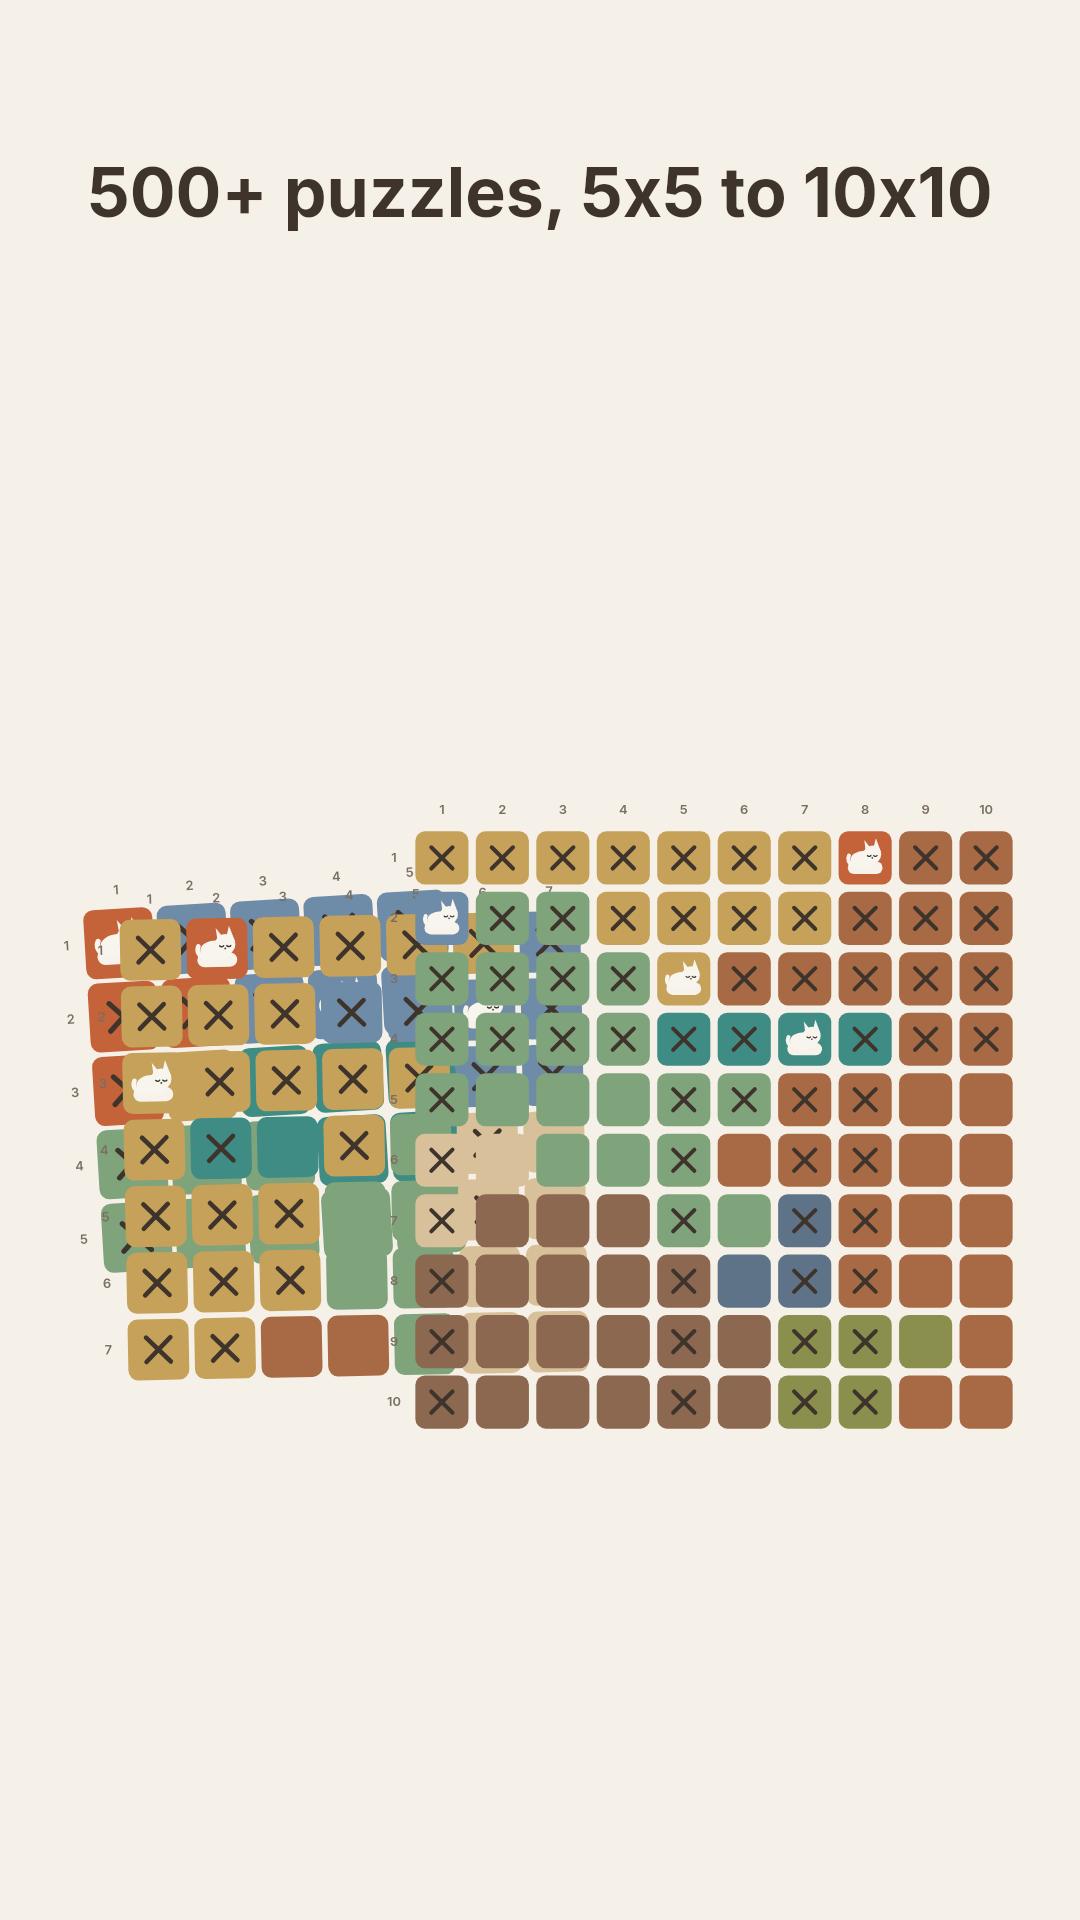
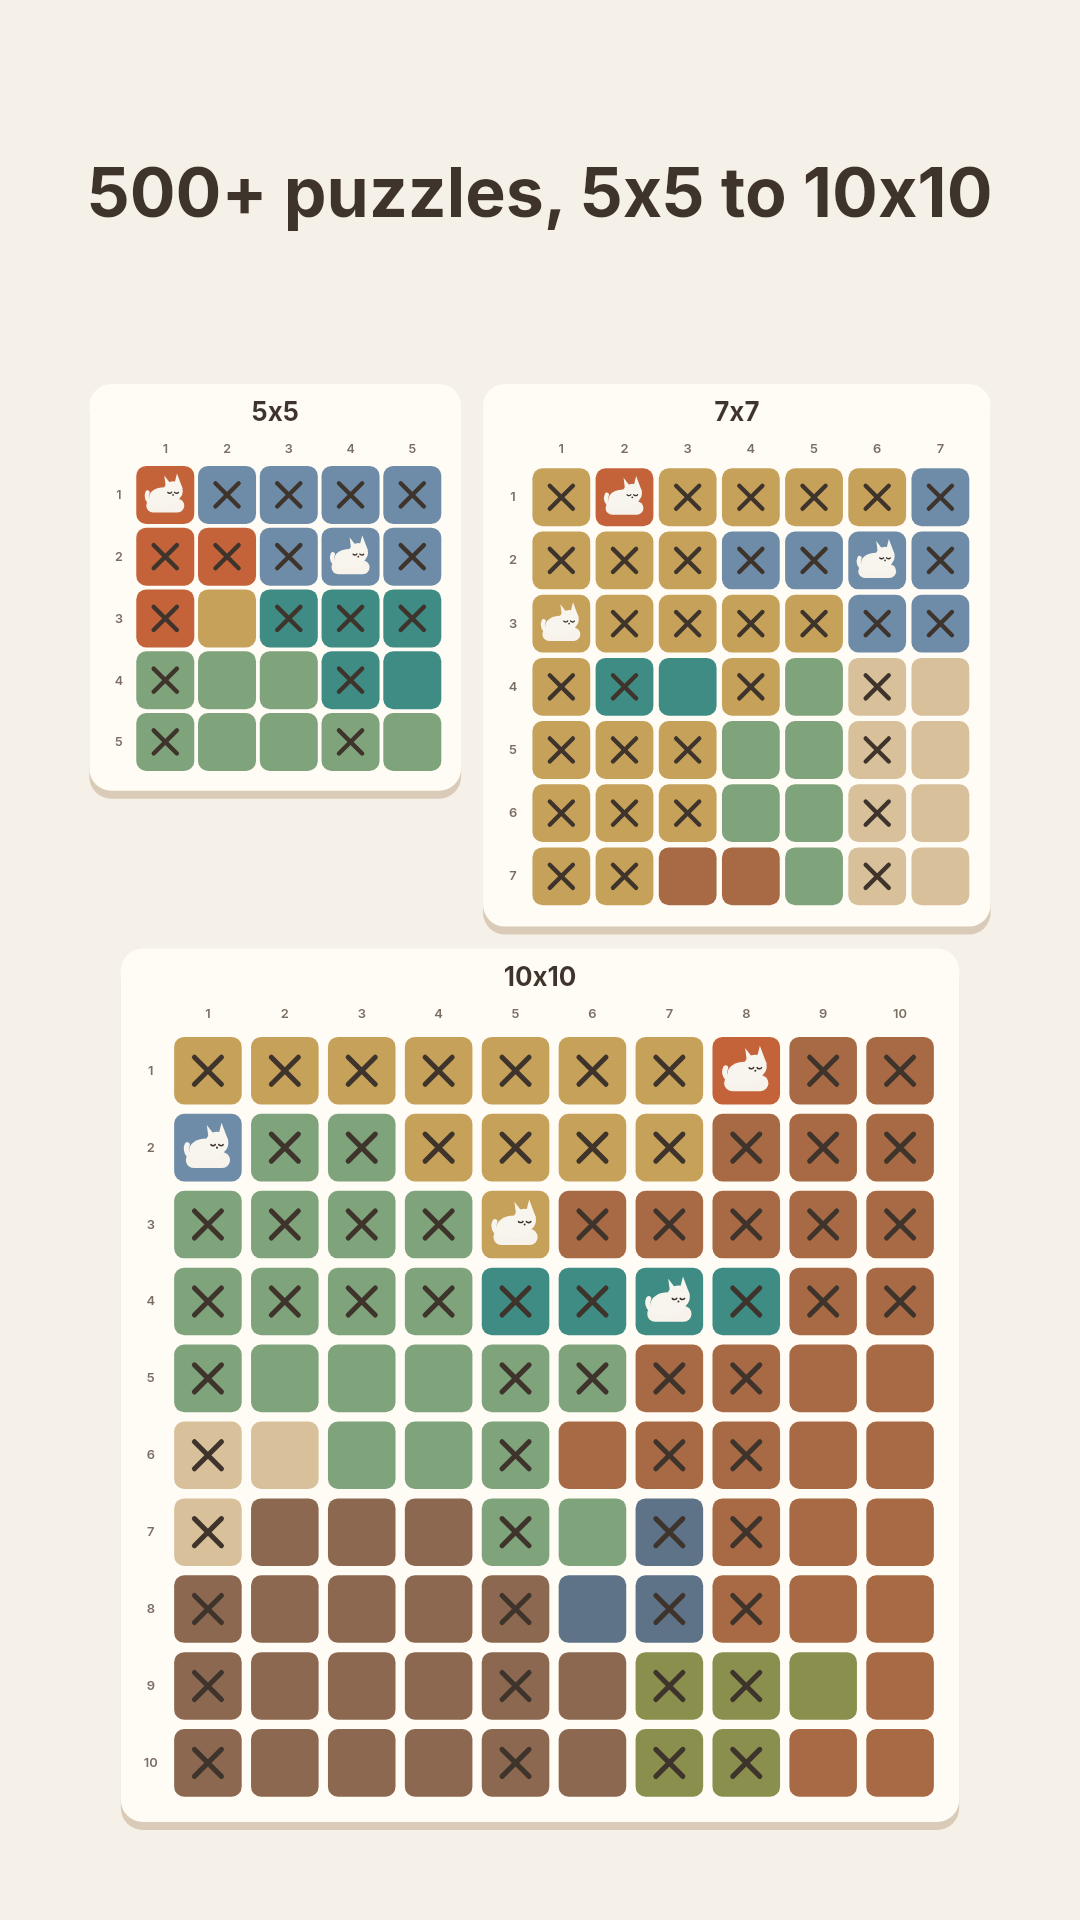
Show the three board sizes as separate cards.
Shot 6 no longer overlaps the grids. A 5x5 and a 7x7 sit side by side above a larger 10x10, each on its own cream card.

diff --git a/test/store/capture_store_test.dart b/test/store/capture_store_test.dart
@@ -332,22 +332,32 @@ void main() {
         caption: '500+ puzzles, 5x5 to 10x10',
         scene: Padding(
           padding: const EdgeInsets.fromLTRB(60, 0, 60, 96),
-          child: Stack(
-            alignment: Alignment.center,
-            children: [
-              Transform.translate(
-                offset: const Offset(-280, -36),
-                child: Transform.rotate(angle: -0.06, child: SizedBox(width: 400, height: 400, child: board(five, fiveMarks))),
-              ),
-              Transform.translate(
-                offset: const Offset(-200, 28),
-                child: Transform.rotate(angle: -0.02, child: SizedBox(width: 500, height: 500, child: board(seven, sevenMarks))),
-              ),
-              Transform.translate(
-                offset: const Offset(160, 12),
-                child: SizedBox(width: 640, height: 640, child: board(ten, tenMarks)),
-              ),
-            ],
+          child: LayoutBuilder(
+            builder: (context, constraints) {
+              const gap = 22.0;
+              const chrome = 68.0;
+              final width = constraints.maxWidth;
+              final height = constraints.maxHeight;
+              final tenSide = (width - 36).clamp(0.0, height * 0.56);
+              final top = height - gap - tenSide - chrome;
+              final sevenSide = (top - chrome).clamp(0.0, (width - gap) * 0.56 - 36);
+              final fiveSide = sevenSide * 5 / 7;
+              return Column(
+                children: [
+                  Row(
+                    crossAxisAlignment: CrossAxisAlignment.start,
+                    mainAxisAlignment: MainAxisAlignment.center,
+                    children: [
+                      _SizeCard(label: '5x5', side: fiveSide, child: board(five, fiveMarks)),
+                      const SizedBox(width: gap),
+                      _SizeCard(label: '7x7', side: sevenSide, child: board(seven, sevenMarks)),
+                    ],
+                  ),
+                  const SizedBox(height: gap),
+                  _SizeCard(label: '10x10', side: tenSide, child: board(ten, tenMarks)),
+                ],
+              );
+            },
           ),
         ),
       ),
@@ -440,6 +450,36 @@ List<CellMark> placedOne(Puzzle puzzle) {
   final marks = List<CellMark>.filled(puzzle.cellCount, CellMark.empty);
   marks[cats[0]] = CellMark.cat;
   return withAutoMarks(puzzle, marks, enabled: true);
+}
+
+class _SizeCard extends StatelessWidget {
+  const _SizeCard({required this.label, required this.side, required this.child});
+
+  final String label;
+  final double side;
+  final Widget child;
+
+  @override
+  Widget build(BuildContext context) {
+    return DecoratedBox(
+      decoration: BoxDecoration(
+        color: const Color(0xFFFFFBF5),
+        borderRadius: BorderRadius.circular(22),
+        boxShadow: const [BoxShadow(color: Color(0xFFD9CBB8), blurRadius: 0, offset: Offset(0, 8))],
+      ),
+      child: Padding(
+        padding: const EdgeInsets.fromLTRB(16, 12, 16, 16),
+        child: Column(
+          mainAxisSize: MainAxisSize.min,
+          children: [
+            Text(label, style: const TextStyle(fontFamily: 'Inter', fontSize: 26, fontWeight: FontWeight.w700, color: Color(0xFF3E342C))),
+            const SizedBox(height: 8),
+            SizedBox(width: side, height: side, child: child),
+          ],
+        ),
+      ),
+    );
+  }
 }
 
 class _Callout extends StatelessWidget {
